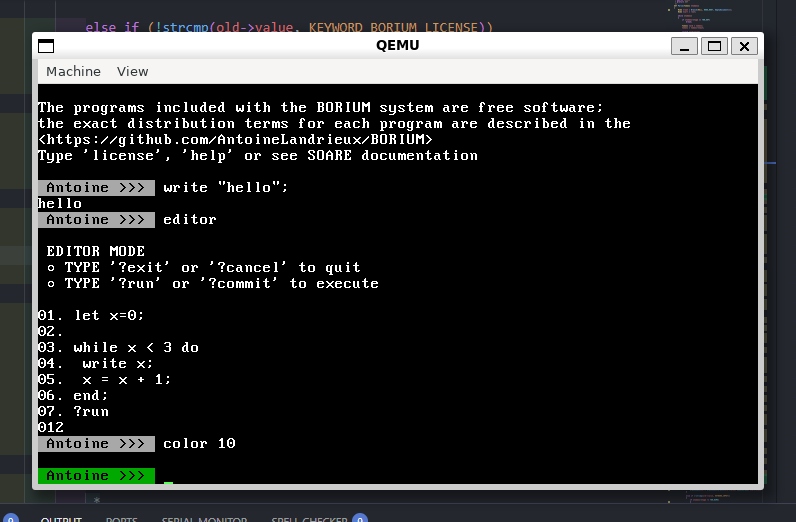
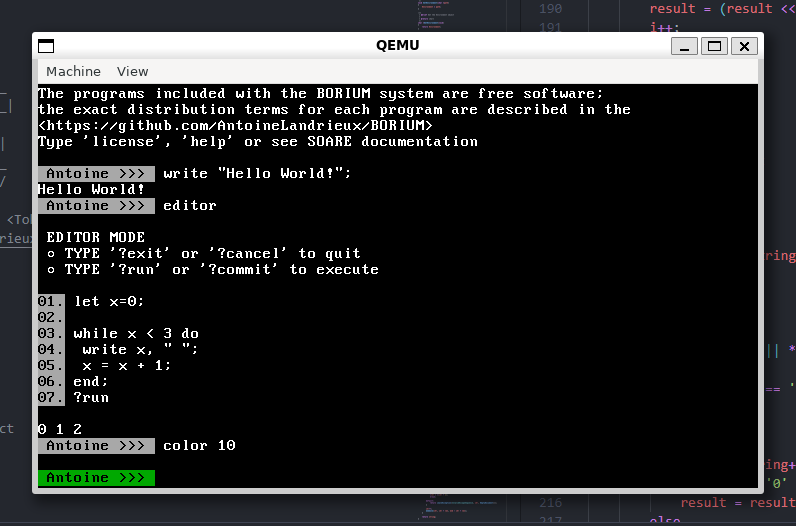
Better editor + Fix getc

diff --git a/kernel/kernel.c b/kernel/kernel.c
@@ -88,7 +88,8 @@ void EDITOR(void)
 
         itoa(lines, sizeof(lines), (i + 1));
         CPUTS(lines, color);
-        CPUTS(". ", color);
+        CPUTC('.', color);
+        PUTC(' ');
 
         GETS(user, sizeof(user));
         strcat(file, user);
@@ -102,6 +103,7 @@ void EDITOR(void)
 
     PUTC('\n');
     Execute("editor", file);
+    free_all();
 }
 
 static void USAGE_SELECTOR(void)

diff --git a/core/Runtime.c b/core/Runtime.c
@@ -176,7 +176,7 @@ static char *Runtime(AST tree)
         case NODE_BORIUM_GETC:
             if ((get = MemGet(MEMORY, curr->value)))
             {
-                if ((returned = malloc(2)))
+                if (!(returned = malloc(2)))
                     return __SOARE_OUT_OF_MEMORY();
                 returned[0] = GETC();
                 returned[1] = 0;
